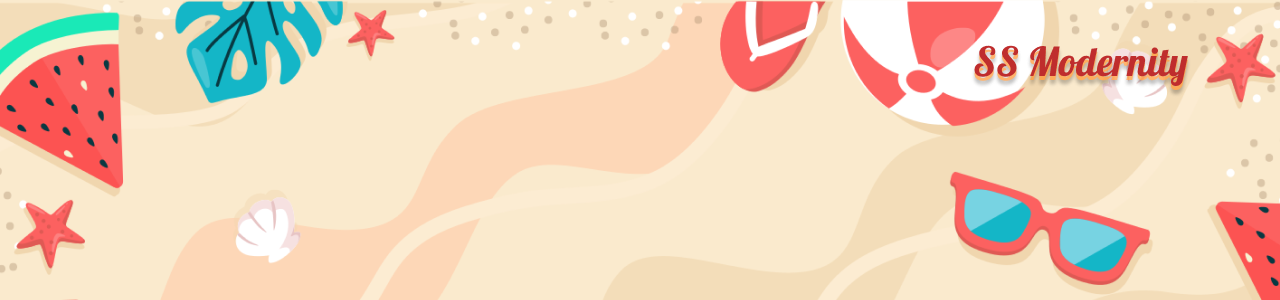
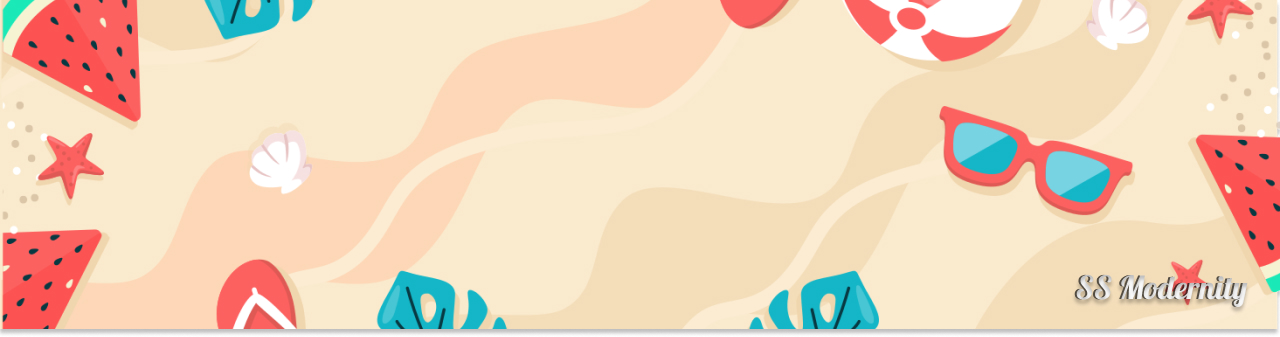
Fase de testeo del componente de busqueda y mejoras de diseño y visualizacion de la web (aun no disponible version para moviles)

diff --git a/src/App.svelte b/src/App.svelte
@@ -16,6 +16,7 @@
   import Product from "./lib/ProductView.svelte";
   import NotFound from "./lib/NotFound.svelte";
   import Categories from "./lib/Categories.svelte";
+  import SearchResult from "./lib/SearchResult.svelte";
   
   export let url = "";
   const storedProducts = localStorage.getItem("products");
@@ -25,6 +26,7 @@
   let upBtn;
   let parsedProducts;
   let prodFromHome;
+  let stockProds
 
   class Items {
     static userDiscount = 15;
@@ -163,47 +165,50 @@
   <Router {url}>
     <Route path="*" component={NotFound} />
     <main class="">
-      <header class="mb-10 p-0">
+      <header class="">
         <Banner scrollHandler={getScroll}>
-          <WishComp discount={discountedStateChecker} bind:checkValue={checkFromNav} />
+          <Categories /> 
         </Banner>
       </header>
-      <article class="flex md:gap-8 lg:gap-x-16 flex-grow">
-        <SideNav bind:checkPlease={checkFromNav} getConfig={getUserConfig} switchMode={enableDark} darkMode={isDarkMode}>
-          <button
-            class={`${btnScrollState ? "SpecialButtons" : "hiddenClass"}`} bind:this={upBtn} on:click={backToTop}>
-            <img
-              class="w-full h-full block"
-              src={svgIcons.upButton}
-              alt="Volver al inicio"
-            />
-          </button>
-        </SideNav>
-        <Route path="/Login">
-          <Login 
-              signInWithGoogle={googleProviderHandler}
-              validFunc={validateFields}
-          />
-        </Route>
-        <Route path="/SignUp">
-          <SignUp 
-              signInWithGoogle={googleProviderHandler}
-              validFunc={validateFields}
-           />
-        </Route>
-        <Route path="/Profile">
-          <MyProfile getConfig={getUserConfig} signOutSession={sessionOut} darkMode={isDarkMode}/>
-        </Route>
-        <Route path="/Product/:id">
-          <Product discount={discountedStateChecker} myProduct={prodFromHome} />
-        </Route>
-        <Route path="/">
-          <Categories /> 
-        </Route>
-        <Route path="/:id" let:params>
-          <HomeSec tag={params.id} discount={discountedStateChecker} ItemsClass={Items} bind:itemSelected={prodFromHome} /> 
-        </Route>
+      <article class="relative">
+        <WishComp discount={discountedStateChecker} bind:checkValue={checkFromNav} />
       </article>
+        <section class="flex py-10 md:gap-8 lg:gap-x-16 flex-grow ">
+          <SideNav bind:checkPlease={checkFromNav} getConfig={getUserConfig} switchMode={enableDark} darkMode={isDarkMode}>
+            <button
+              class={`${btnScrollState ? "SpecialButtons" : "hiddenClass"}`} bind:this={upBtn} on:click={backToTop}>
+              <img
+                class="w-full h-full block"
+                src={svgIcons.upButton}
+                alt="Volver al inicio"
+              />
+            </button>
+          </SideNav>
+          <Route path="/Login">
+            <Login 
+                signInWithGoogle={googleProviderHandler}
+                validFunc={validateFields}
+            />
+          </Route>
+          <Route path="/SignUp">
+            <SignUp 
+                signInWithGoogle={googleProviderHandler}
+                validFunc={validateFields}
+             />
+          </Route>
+          <Route path="/Profile">
+            <MyProfile getConfig={getUserConfig} signOutSession={sessionOut} darkMode={isDarkMode}/>
+          </Route>
+          <Route path="/Product/:id">
+            <Product discount={discountedStateChecker} myProduct={prodFromHome} />
+          </Route>
+          <Route path="/">
+            <HomeSec bind:products={stockProds} discount={discountedStateChecker} ItemsClass={Items} bind:itemSelected={prodFromHome} /> 
+          </Route>
+          <Route path="/Search/:id" let:params>
+            <SearchResult searchProds={stockProds} tag={params.id} bind:itemSelected={prodFromHome}/> 
+          </Route>
+        </section>
       <footer class="w-full h-auto mt-14 border drop-shadow-2xl p-10">
         <div class="flex flex-col items-center gap-3">
           <h1 class="font-extrabold text-4xl" translate="no">SS Modernity</h1>

diff --git a/src/lib/Wishlist.svelte b/src/lib/Wishlist.svelte
@@ -14,34 +14,34 @@
 </script>
 
 {#if checkValue}
-    <div class="absolute overflow-hidden left-[33%] z-20 w-60 h-auto rounded-md md:left-[60%] md:w-80 lg:left-[69%] lg:w-96">
-        <div class="backdrop-filter backdrop-blur-xl border-b border-r rounded-md p-2 shadow-md lg:p-4 animFadeDown animate-duration-500">
-            <label for="CloseBtn" class="relative left-[88%] bottom-6 w-10 h-10 z-10 p-2 cursor-pointer">
-                <input type="checkbox" class="hidden" id="CloseBtn" bind:checked={checkValue}>
-                <img class="w-8 h-8 block" src={svgIcons.closeIcon} alt="">
-            </label>
-            <h2 class="relative text-lg bottom-20">Your WishList:</h2>
-            {#each $productPkg as prod}
-                <div class="flex relative bottom-8 h-36 gap-x-3 gap-y-3 items-start transition lg:w-full animFadeRight animate-duration-600">
-                    <figure class="w-44 h-32 cursor-pointer hover:scale-110 transition-all">
-                        <img class="w-full h-full block rounded-sm" src={prod.photo} alt="">
-                    </figure>
-                    <div class="flex-col">
-                        <p class="text-sm md:text-base lg:text-base">{prod.name}</p>
+<div class="absolute overflow-auto right-0 border-l border-b rounded-md shadow-md z-20 w-[265px] h-auto md:w-80 lg:w-96">
+    <div class="backdrop-filter backdrop-blur-2xl p-4 shadow-md animFadeLeft animate-duration-300">
+        <label for="CloseBtn" class="absolute top-2 right-2 w-10 h-10 z-10 p-2 cursor-pointer">
+            <input type="checkbox" class="hidden" id="CloseBtn" bind:checked={checkValue}>
+            <img class="w-8 h-8 block" src={svgIcons.closeIcon} alt="">
+        </label>
+        <h2 class="text-lg mb-4">Your WishList:</h2>
+        {#each $productPkg as prod}
+            <div class="flex items-start gap-2 mb-4 transition lg:w-full animFadeLeft animate-duration-500">
+                <figure class="w-44 h-32 cursor-pointer hover:scale-110 transition-all">
+                    <img class="w-full h-full block rounded-sm object-cover" src={prod.photo} alt="">
+                </figure>
+                <div class="flex-col">
+                    <p class="text-sm md:text-base lg:text-base">{prod.name}</p>
                     {#if $User}
                         <h3 class="text-base text-gray-500 lg:text-lg line-through">Before {prod.price}$</h3>
                         <h3 class="text-base lg:text-lg">Now {prod.discountedPrice}$</h3>
                     {:else}
                         <h3 class="text-base lg:text-lg">{prod.price}$</h3>
                     {/if}
-                        <button class="w-10 h-10 p-2 z-10 transition-all active:scale-90 lg:p-1" on:click={()=> productPkg.delete(prod.name)}>
-                            <img class="w-full h-full block" src={svgIcons.garbage} alt="Delete product">
-                        </button>
-                    </div>
+                    <button class="w-7 h-7 z-10 transition-all active:scale-90 lg:h-10 lg:w-10 lg:p-1" on:click={() => productPkg.delete(prod.name)}>
+                        <img class="w-full h-full block" src={svgIcons.garbage} alt="Delete product">
+                    </button>
                 </div>
-                {:else}
-                <p class="relative text-lg bottom-14 lg:bottom-8">You're not have any product yet</p>
-            {/each}
-        </div>  
-    </div>
+            </div>
+        {:else}
+            <p class="text-lg">You're not have any product yet</p>
+        {/each}
+    </div>  
+</div>
 {/if}

diff --git a/src/lib/SearchResult.svelte b/src/lib/SearchResult.svelte
@@ -1,41 +1,36 @@
 <script>
-    import { productPkg } from "../Stores/ProductStore"
-    import { User } from "../Stores/UserStore"
-    import { navigate } from "svelte-routing"
-    import { beforeUpdate } from "svelte"
-    import { svgIcons, productImgs } from "../Imports/images";
-    
-    export let ItemsClass
-    export let discount
+    import { beforeUpdate } from "svelte";
+    import { svgIcons } from "../Imports/images";
+    import { navigate } from "svelte-routing";
+    import { User } from "../Stores/UserStore";
+    import { productPkg } from "../Stores/ProductStore";
+    export let searchProds
+    export let tag
     export let itemSelected
-    export let products = []
+    let resultProds
 
-    let modernMaleOut = new ItemsClass ("Modern Outfit Male", productImgs.Img1, 55, "M", "Casual")
-    let summerWomenOut = new ItemsClass ("Summer Outfit Women", productImgs.Img6, 29.99, "S", "Summer")
-    let ofWhite = new ItemsClass ("OfWhite Headsets", productImgs.Img4, 25, "Universal", "Casual")
-    let casualOut = new ItemsClass ("Casual Outfit for Men", productImgs.Img2, 49.99, "L", "Casual")
-    let sportOut = new ItemsClass ("Sporty outfit with accessories", productImgs.Img3, 35, "L  and M", "Fit")
-    let grungeOut = new ItemsClass ("Grunge Outfit For Girl", productImgs.Img5, 20, "S, L  and M", "Casual")
-    let beachAcc = new ItemsClass ("Beach accessories for women", productImgs.Img7, 19.99, "Universal", "Summer")
-    let girlSport = new ItemsClass ("Sporty Oufit for Women", productImgs.Img8, 29.99, "S", "Fit")
-    let chicOut = new ItemsClass ("Fall outfit for a girl", productImgs.Img9, 49.99, "S", "Casual")
-
-    products.push(modernMaleOut, summerWomenOut, casualOut, ofWhite, sportOut, grungeOut, beachAcc, girlSport, chicOut)
+    function displayByTag(tagParam) {
+        if(tagParam) {
+            resultProds = searchProds.filter((type) => type.tag === tagParam)
+        } else {
+           navigate("/", {replace: true, preserveScroll: true})
+        }
+    }
 
     function displayLargeView(item) {
         itemSelected = [item]
         navigate(`/Product/${item.name}`, {replace: true, preserveScroll: true})
     }
-   
-    beforeUpdate(() => {
-        discount(products)
+
+    beforeUpdate( () => {
+        displayByTag(tag)
     })
 </script>
 
 <section class="basis-[80%] relative bg-transparent w-[60%] h-auto p-4 border-r border-b rounded-md lg:w-[80%] transition-all drop-shadow-lg shadow-lg">
-    <h2 class="text-lg mb-2">Our Products:</h2>
+    <h2 class="text-lg mb-2">{tag} catalog:</h2>
     <div class="HomeDivSet">
-    {#each products as prod }
+    {#each resultProds as prod }
         <figure class="HomefigSet group animFadeDown" on:dblclick={() => {displayLargeView(prod)}}>
             <img class="HomeImgSet" src={prod.photo} loading="lazy" alt="">
             <button on:click={() => productPkg.add(prod)}  class="absolute z-10 top-3 left-3 flex justify-center items-center w-10 h-10 p-1 bg-slate-200/50 border rounded-2xl active:scale-75 transition duration-150 peer">
@@ -62,5 +57,3 @@
     {/each}
     </div>
 </section>
-
-

diff --git a/src/index.css b/src/index.css
@@ -13,7 +13,7 @@
 
 @layer components {
     .SpecialButtons {
-        @apply fixed z-50 left-10 ml-2 w-8 h-8 rounded-full active:scale-90 hover:scale-110 transition duration-150 drop-shadow-lg lg:mt-3 lg:left-14 lg:ml-1 lg:w-10 lg:h-10 
+        @apply fixed z-50 left-11 ml-1 mt-1 w-8 h-8 rounded-full active:scale-90 hover:scale-110 transition duration-150 drop-shadow-lg lg:mt-3 lg:left-14 lg:ml-1 lg:w-10 lg:h-10 
     }
     .globalImgRules {
         @apply block w-full h-full
@@ -55,7 +55,7 @@
         @apply w-full h-24 space-y-1 p-2 bg-gray-400/50 rounded-sm text-start absolute bottom-0 opacity-0 transition-all duration-200 md:space-y-2 lg:h-28
     }
     .CategoriesCont {
-        @apply relative w-64 h-52 lg:w-80 lg:h-64 z-10 rounded-md border-2 border-slate-500 shadow-lg overflow-hidden active:scale-90 transition-all
+        @apply relative w-44 h-36 z-10 rounded-md border-2 border-slate-500 shadow-lg overflow-hidden active:scale-90 transition-all
     }
     .CategoriesHiddenInfo {
         @apply absolute bottom-0 w-full h-full opacity-0 group-hover:opacity-100 z-10 bg-gradient-to-b from-white/40 to-black/40 transition-all flex items-center justify-center

diff --git a/src/lib/Banner.svelte b/src/lib/Banner.svelte
@@ -109,12 +109,10 @@
     {/each}
   </div>
 </section>
-<figure class="BannerFigRules h-60 hidden mt-6 lg:block">
-  <div class="BannerDivRules p-7 gap-4">
-    <p class="text-2xl text-red-400 drop-shadow-2xl">Up to 15% OFF</p>
-    <h2 class="text-6xl text-cyan-400 drop-shadow-2xl animPulse">Summer!</h2>
-    <p class="text-3xl text-red-500 drop-shadow-2xl">BIG SALE</p>
+<figure class="BannerFigRules h-80 hidden mt-6 lg:block">
+  <div class="relative py-3 z-10 flex-col justify-center items-center text-center">
+    <h2 class="text-2xl text-slate-600 text-center">Looking for a specific style? Take a look at the categories!</h2>
   </div>
-  <img class="BannerImgRules absolute top-0" src={backgrounds.bigSale} alt="" />
+  <slot />
+  <img class="BannerImgRules object-cover absolute top-0" src={backgrounds.bigSale} alt="" />
 </figure>
-<slot />

diff --git a/src/lib/Categories.svelte b/src/lib/Categories.svelte
@@ -3,12 +3,12 @@
   import { navigate } from "svelte-routing";
 
   const navTo = (tag) => {
-    navigate(`/${tag}`, {replace: true, preserveScroll: true})
+    navigate(`/Search/${tag}`, {replace: true, preserveScroll: true})
   }
   
 </script>
 
-<section class="LoginSecForm flex-row justify-center gap-5 flex-wrap items-start">
+<div class="LoginSecForm  w-full flex-row justify-center gap-7 flex-wrap  mx-auto my-2">
   <button 
     on:click={() => navTo("Fit")}
     class="group CategoriesCont"
@@ -45,4 +45,4 @@
       <p class="text-lg text-slate-800 lg:text-2xl">Summer</p>
     </div>
   </button>
-</section>
+</div>

diff --git a/src/lib/SideBar.svelte b/src/lib/SideBar.svelte
@@ -101,7 +101,7 @@
                 </article>
             {:else}
                 <figure
-                    class="w-10 h-10 p-2 rounded-full ml-1 hover:scale-105 transition duration-200 md:w-12 md:h-12"
+                    class="w-10 h-10 p-2 rounded-full ml-1 hover:scale-105 transition duration-200 lg:w-12 lg:h-12"
                 >
                     <Link to="/Login" preserveScroll>
                         <img
